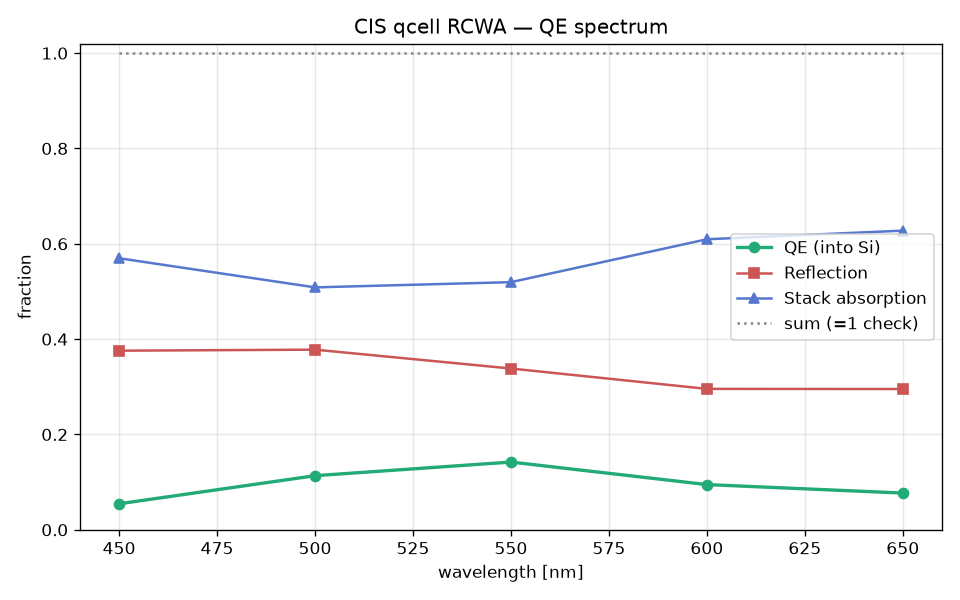
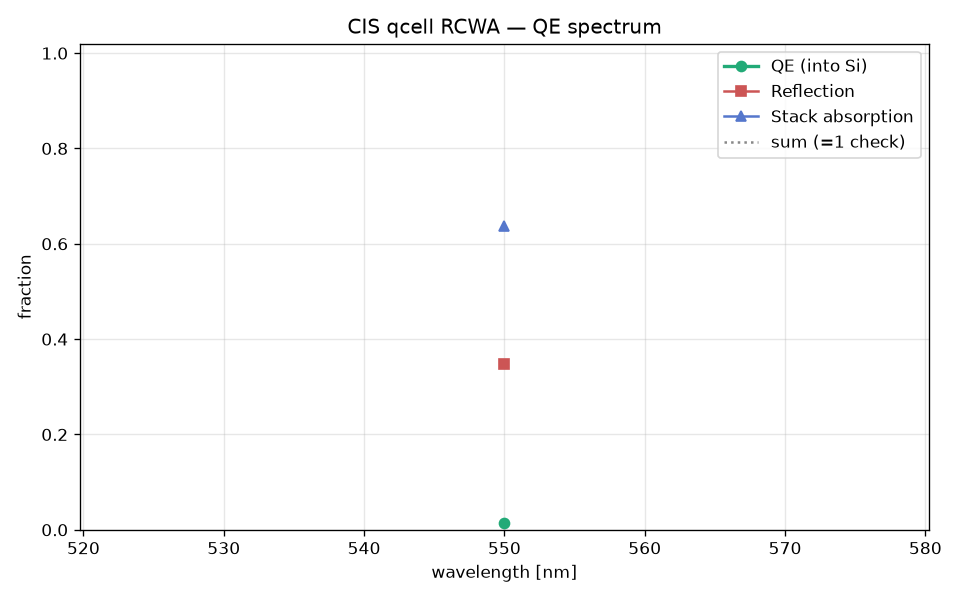
Reorganize into src/ block tree (config/materials/structure/rcwa/sim/viz/...)
- src/ 패키지: config(loader,schema) / materials(library) /
  structure(builder=RCWATensorStack, color_filter·si_dti·shrink 스텁) /
  rcwa(rcwa,kbloch,fft_funs,torch_eig,tests,eig 스텁) /
  sim(simulator,runner,qe_calc·cone·models·option 스텁) /
  viz·eval·opt·utils·api·cache·core 블록 스텁.
- conf/ (설정 YAML), data/materials/ (물질 txt), editors/ (HTML) 분리.
- 최상위 진입점: validate.py / build_structure.py / run_qe.py.
- import 상대경로화, 파이프라인 end-to-end 검증 통과.

Claude-Session: https://claude.ai/code/session_01TWsubYhc5KeSwgcdPsEJZM

diff --git a/cis_rcwa/src/sim/simulator.py b/cis_rcwa/src/sim/simulator.py
@@ -15,19 +15,27 @@ import os
 import numpy as np
 import torch
 
-from build_qcell import QcellBuilder, load_config
-from rcwa import RCWASolver
-from materials import MaterialLibrary
+from ..structure.builder import QcellBuilder
+from ..config.loader import load_config
+from ..rcwa import RCWASolver
+from ..materials.library import MaterialLibrary
 
 
 class RCWAPlaneWaveSimulator:
     def __init__(self, config_path, nG=101, downsample=2, trunc="circular",
-                 device=None, dtype=torch.complex128, materials_dir="materials"):
+                 device=None, dtype=torch.complex128, materials_dir=None):
         self.cfg = load_config(config_path)
         self.base_dir = os.path.dirname(os.path.abspath(config_path))
-        # materials/ 폴더 자동 로드 (파장별 n,k). 없으면 config dispersion/상수 fallback.
-        mdir = materials_dir if os.path.isabs(materials_dir) else os.path.join(self.base_dir, materials_dir)
-        self.matlib = MaterialLibrary(mdir) if os.path.isdir(mdir) else None
+        # 물질 폴더(파장별 n,k) 자동 탐색: 지정값 -> conf 옆 materials -> repo data/materials
+        cands = []
+        if materials_dir:
+            cands.append(materials_dir if os.path.isabs(materials_dir)
+                         else os.path.join(self.base_dir, materials_dir))
+        cands.append(os.path.join(self.base_dir, "materials"))
+        cands.append(os.path.join(self.base_dir, "..", "data", "materials"))
+        cands.append(os.path.join(os.getcwd(), "data", "materials"))
+        mdir = next((d for d in cands if os.path.isdir(d)), None)
+        self.matlib = MaterialLibrary(mdir) if mdir else None
         if self.matlib:
             print(f"[materials] loaded {len(self.matlib.names())} from {mdir}")
         self.device = device or ("cuda" if torch.cuda.is_available() else "cpu")

diff --git a/cis_rcwa/src/sim/runner.py b/cis_rcwa/src/sim/runner.py
@@ -14,7 +14,7 @@ import argparse
 import numpy as np
 import torch
 
-from simulator import RCWAPlaneWaveSimulator
+from .simulator import RCWAPlaneWaveSimulator
 
 
 def sweep(config, lam0, lam1, nlam, nG, downsample, theta, phi, device):
@@ -70,7 +70,7 @@ def save_outputs(rows, outdir):
 
 def main():
     ap = argparse.ArgumentParser(description="RCWA QE wavelength sweep")
-    ap.add_argument("-c", "--config", default="qcell_config.yaml")
+    ap.add_argument("-c", "--config", default="conf/qcell_config.yaml")
     ap.add_argument("-o", "--outdir", default="out")
     ap.add_argument("--lam0", type=float, default=0.40)
     ap.add_argument("--lam1", type=float, default=0.70)

diff --git a/cis_rcwa/src/__init__.py b/cis_rcwa/src/__init__.py
@@ -1,0 +1,13 @@
+"""pixem — CIS qcell 구조/광학(RCWA) 시뮬레이션 패키지.
+
+블록:
+  config     설정 로드/파싱 · 데이터클래스 스키마
+  materials  물질 파장별 n,k 라이브러리 (data/materials/*.txt)
+  structure  qcell 구조 생성 (builder=RCWATensorStack, color_filter, si_dti, shrink)
+  rcwa       RCWA 솔버 (FMM + S-matrix, torch/GPU)
+  sim        시뮬레이터/러너/QE·신호/원뿔입사/데이터클래스
+  eval       실측 비교 평가
+  opt        대리모델/최적화
+  viz        시각화
+  utils/api/cache/core  유틸·인터페이스·캐시·코어
+"""

diff --git a/cis_rcwa/src/config/schema.py b/cis_rcwa/src/config/schema.py
@@ -1,0 +1,14 @@
+# -*- coding: utf-8 -*-
+"""설정 데이터클래스 (ConfigData, MicroLensData 등). [스텁]"""
+from dataclasses import dataclass, field
+
+@dataclass
+class MicroLensData:
+    sag_height_um: float = 0.55
+    material: str = "ml"
+    quads: list = field(default_factory=list)
+
+@dataclass
+class ConfigData:
+    """구조/시뮬 전체 설정 컨테이너 (추후 확장)."""
+    raw: dict = field(default_factory=dict)

diff --git a/cis_rcwa/src/structure/builder.py b/cis_rcwa/src/structure/builder.py
@@ -308,7 +308,7 @@ class QcellBuilder:
 # ----------------------------------------------------------------------------
 def main():
     ap = argparse.ArgumentParser(description="CIS qcell -> npy builder")
-    ap.add_argument("-c", "--config", default="qcell_config.yaml")
+    ap.add_argument("-c", "--config", default="conf/qcell_config.yaml")
     ap.add_argument("-o", "--outdir", default=".")
     args = ap.parse_args()
 

diff --git a/cis_rcwa/src/sim/models.py b/cis_rcwa/src/sim/models.py
@@ -1,0 +1,11 @@
+# -*- coding: utf-8 -*-
+"""SimCase 데이터클래스 (파장 range/step, 편광, 입사각 등). [스텁]"""
+from dataclasses import dataclass, field
+@dataclass
+class SimCase:
+    lam0_um: float = 0.40
+    lam1_um: float = 0.70
+    n_lambda: int = 13
+    nG: int = 101
+    theta_deg: float = 0.0
+    phi_deg: float = 0.0

diff --git a/cis_rcwa/build_structure.py b/cis_rcwa/build_structure.py
@@ -1,0 +1,8 @@
+#!/usr/bin/env python3
+"""구조 생성(npy). 예: python3 build_structure.py -c conf/qcell_config.yaml -o out"""
+import runpy, os
+os.environ.setdefault("PYTHONPATH", os.path.dirname(__file__))
+from src.structure import builder
+import sys
+sys.argv = sys.argv  # pass-through
+builder.main()

diff --git a/cis_rcwa/validate.py b/cis_rcwa/validate.py
@@ -1,0 +1,5 @@
+#!/usr/bin/env python3
+"""RCWA 엔진 검증 (해석해 비교)."""
+import runpy, os, sys
+sys.path.insert(0, os.path.join(os.path.dirname(__file__), "src"))
+runpy.run_path(os.path.join(os.path.dirname(__file__), "src", "rcwa", "tests", "validate.py"), run_name="__main__")

diff --git a/cis_rcwa/run_qe.py b/cis_rcwa/run_qe.py
@@ -1,0 +1,5 @@
+#!/usr/bin/env python3
+"""QE 파장 sweep 실행.  예: python3 run_qe.py -c conf/qcell_config.yaml --nG 101"""
+from src.sim.runner import main
+if __name__ == "__main__":
+    main()

diff --git a/cis_rcwa/src/rcwa/__init__.py b/cis_rcwa/src/rcwa/__init__.py
@@ -1,0 +1,4 @@
+"""PyTorch RCWA (FMM + S-matrix), GPU 지원."""
+from .rcwa import RCWASolver
+from . import kbloch, fft_funs, torch_eig
+__all__ = ["RCWASolver", "kbloch", "fft_funs", "torch_eig"]
